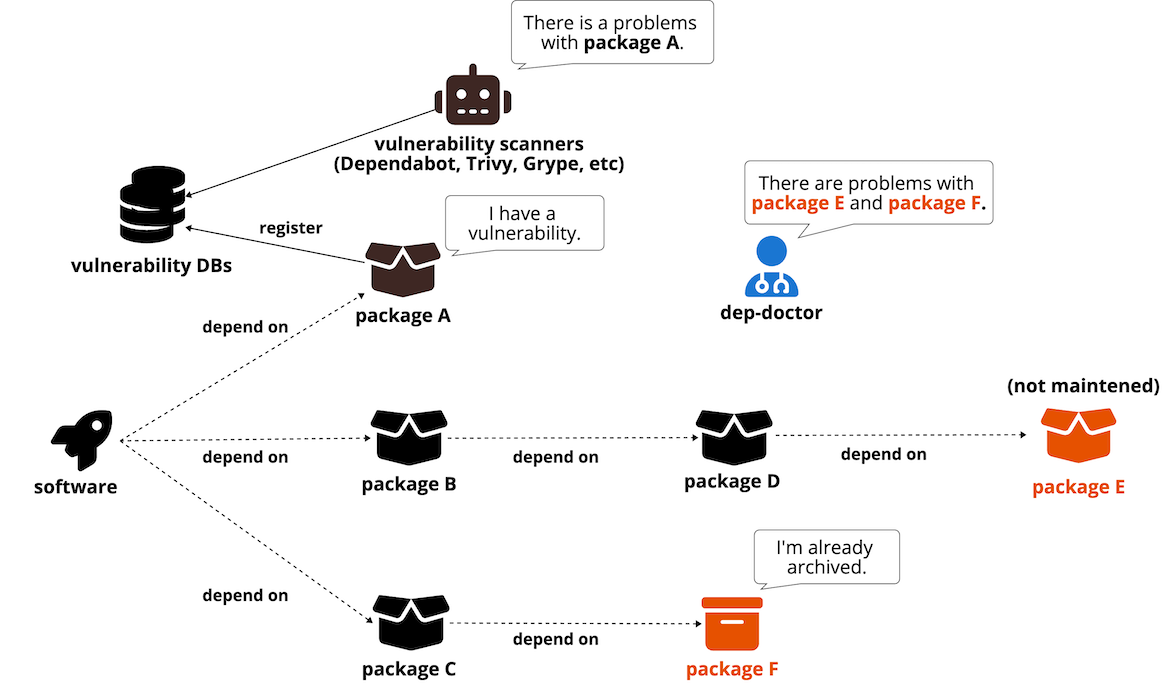
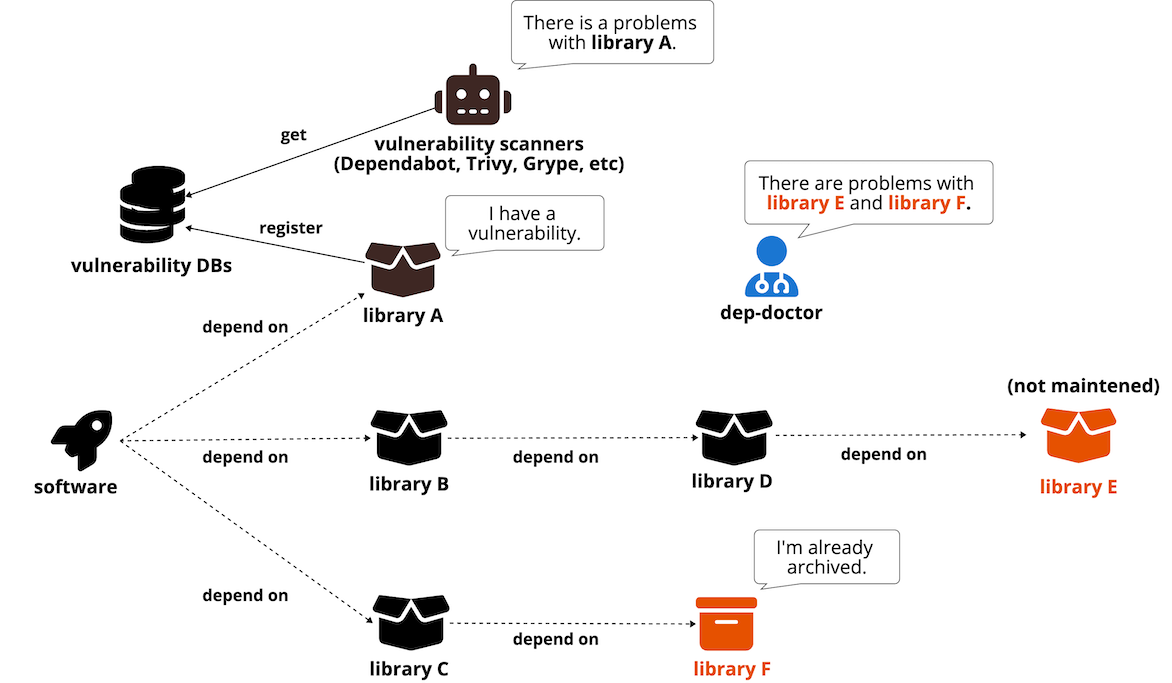
Change pacakge to library

diff --git a/README.md b/README.md
@@ -1,16 +1,16 @@
 # dep-doctor
 
-`dep-doctor` is a tool to diagnose whether your software dependency packages are maintained.
+`dep-doctor` is a tool to diagnose whether your software dependency libraries are maintained.
 
-Today, most software relies heavily on external packages. Vulnerabilities in those packages can be detected by vulnerability scanners ([dependabot](https://docs.github.com/en/code-security/dependabot), [trivy](https://aquasecurity.github.io/trivy), [Grype](https://github.com/anchore/grype), etc) if they are publicly available.
+Today, most software relies heavily on external libraries. Vulnerabilities in those libraries can be detected by vulnerability scanners ([dependabot](https://docs.github.com/en/code-security/dependabot), [trivy](https://aquasecurity.github.io/trivy), [Grype](https://github.com/anchore/grype), etc) if they are publicly available.
 
-However, some packages have archived their source code repositories or have had their development stopped, although not explicitly. `dep-doctor` will notify you of those packages in the dependencies files.
+However, some libraries have archived their source code repositories or have had their development stopped, although not explicitly. `dep-doctor` will notify you of those libraries in the dependencies file.
 
 ![overview](doc/images/dep-doctor_overview.png "dep-doctor overview")
 
 ## Support dependencies files
 
-| language | package manager | file (e.g.) | status |
+| language | package manager | dependencies file (e.g.) | status |
 | -------- | ------------- | -- | :----: |
 | Go | golang | go.mod | :heavy_check_mark: |
 | JavaScript | npm | package-lock.json | :heavy_check_mark: |
@@ -80,7 +80,7 @@ Diagnosis completed! 6 dependencies.
 | *warn* | Source code repository is not active or unknown. |
 | *info* | Other reasons. (specified to be ignored) | |
 
-## How works
+## How it works
 
 ![how_works](doc/images/how_works.png "dep-doctor how works")
 
